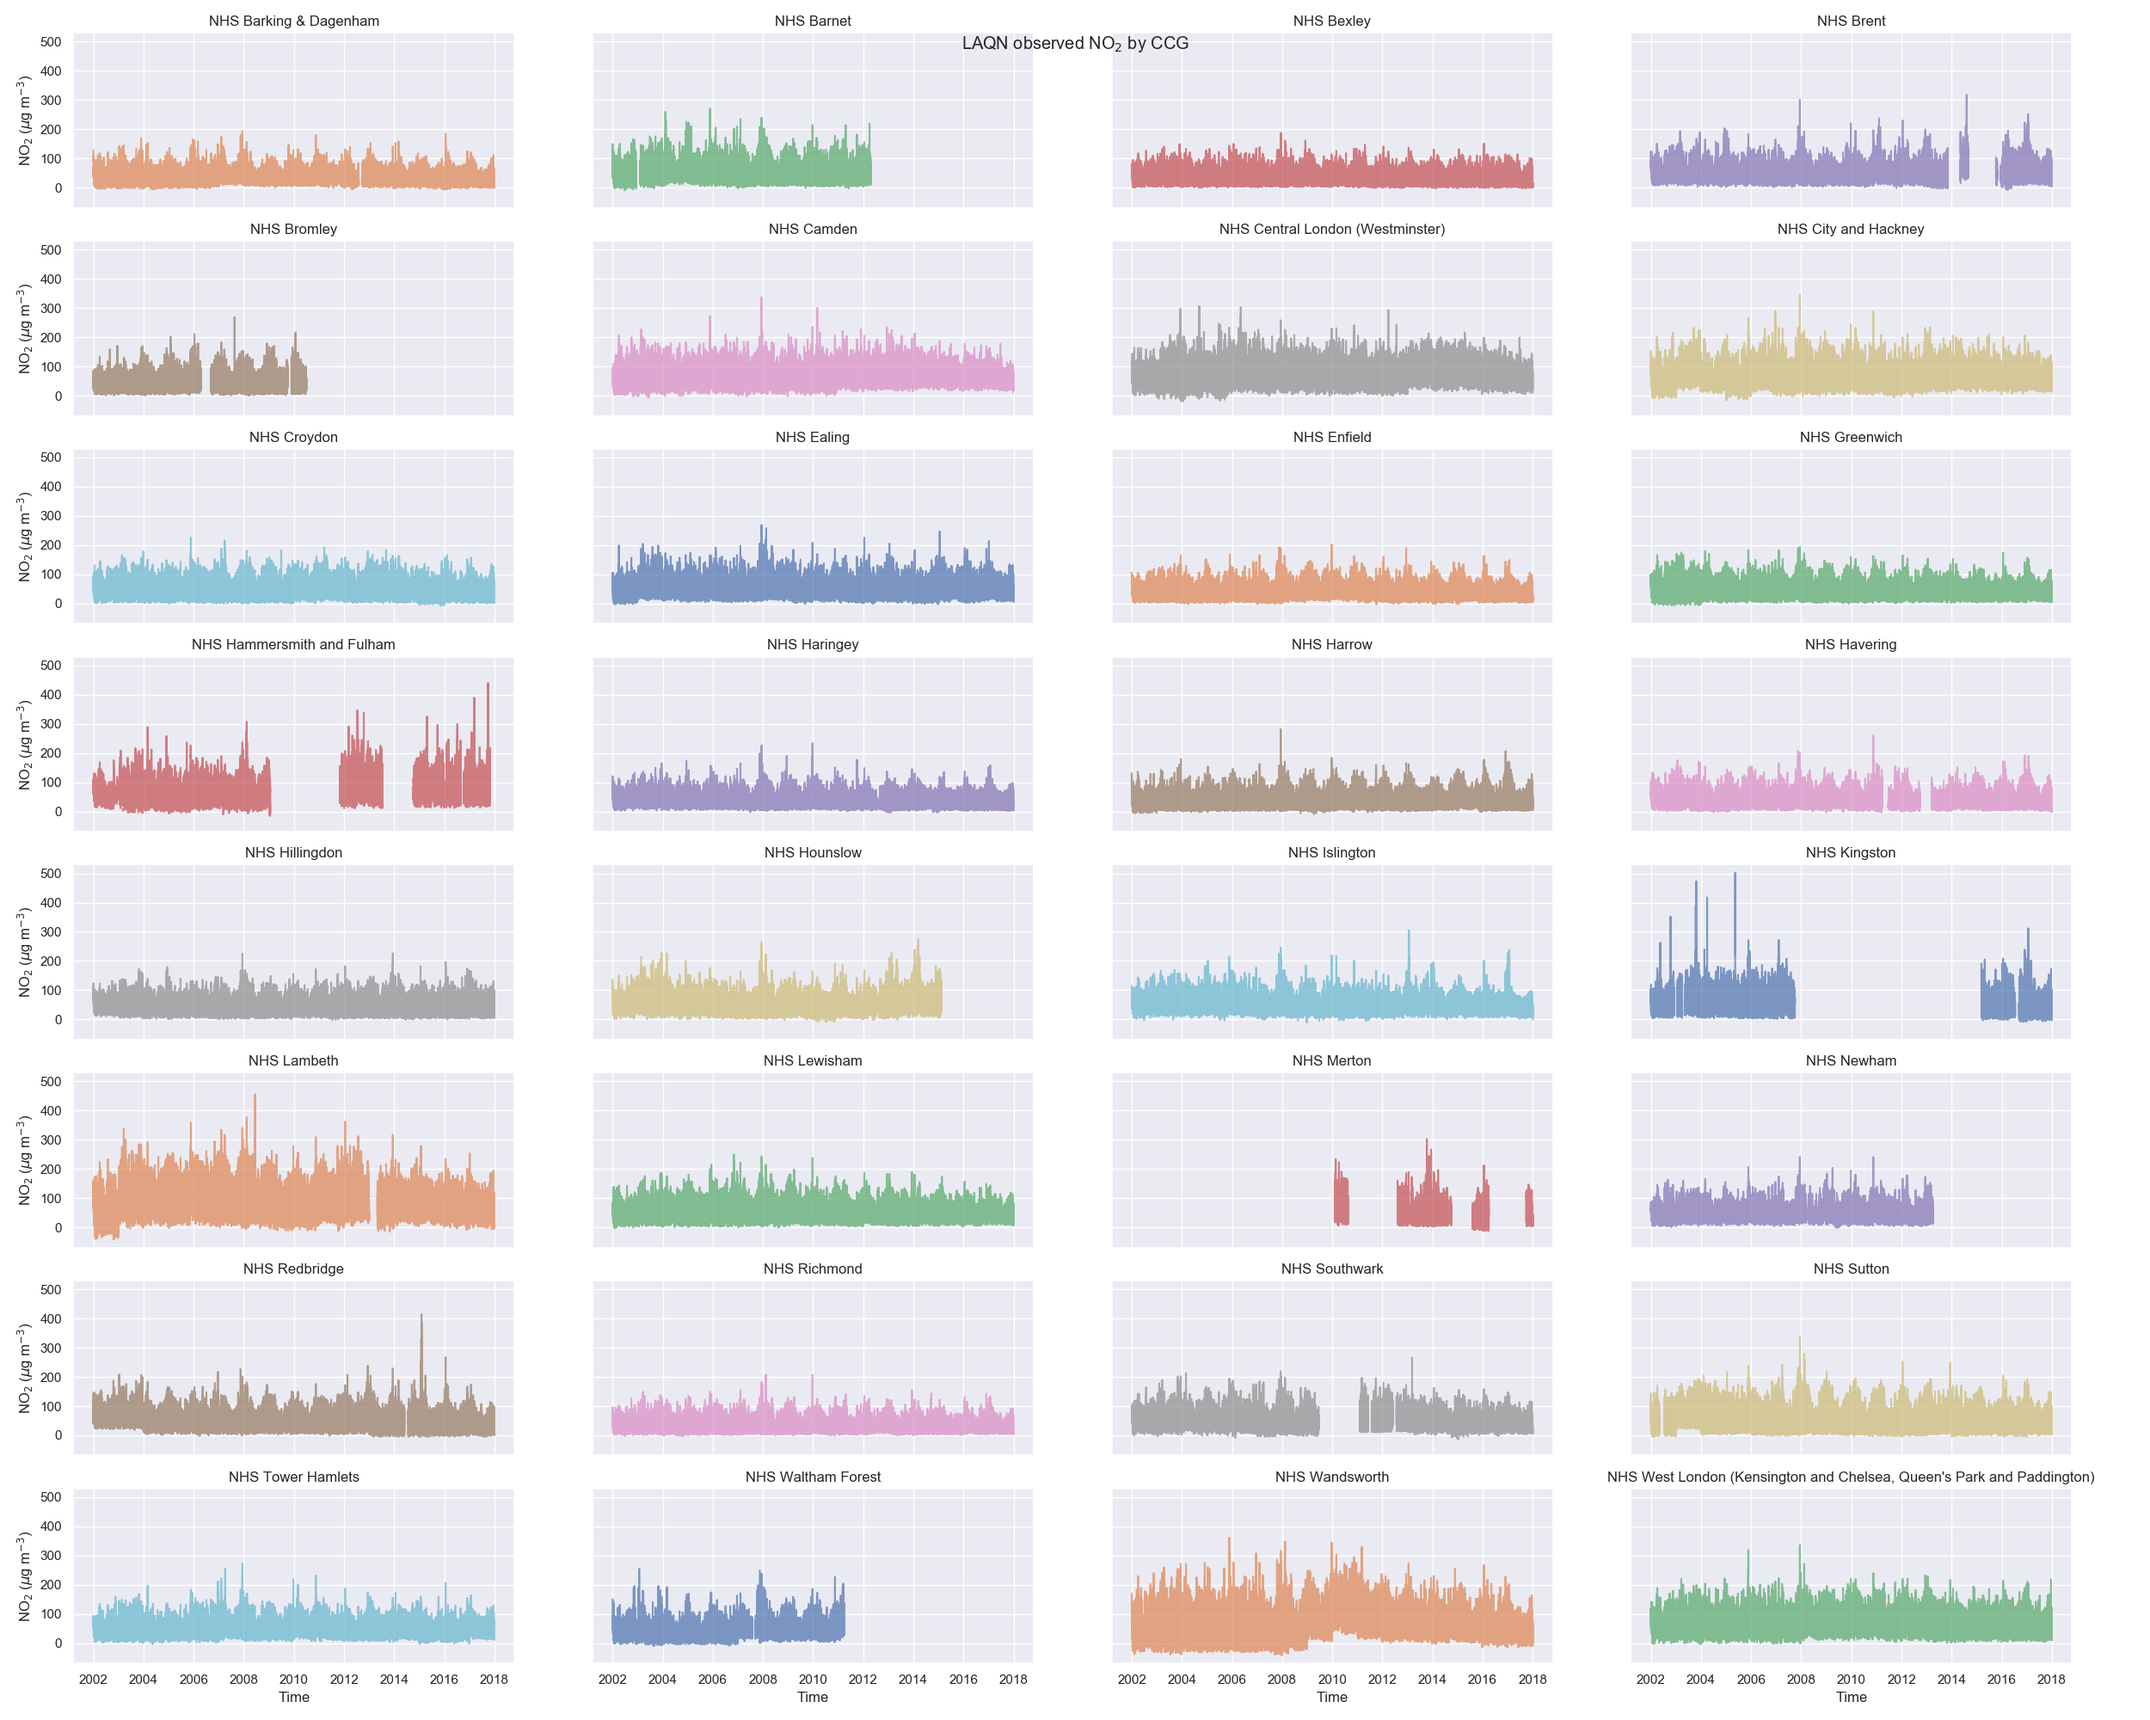
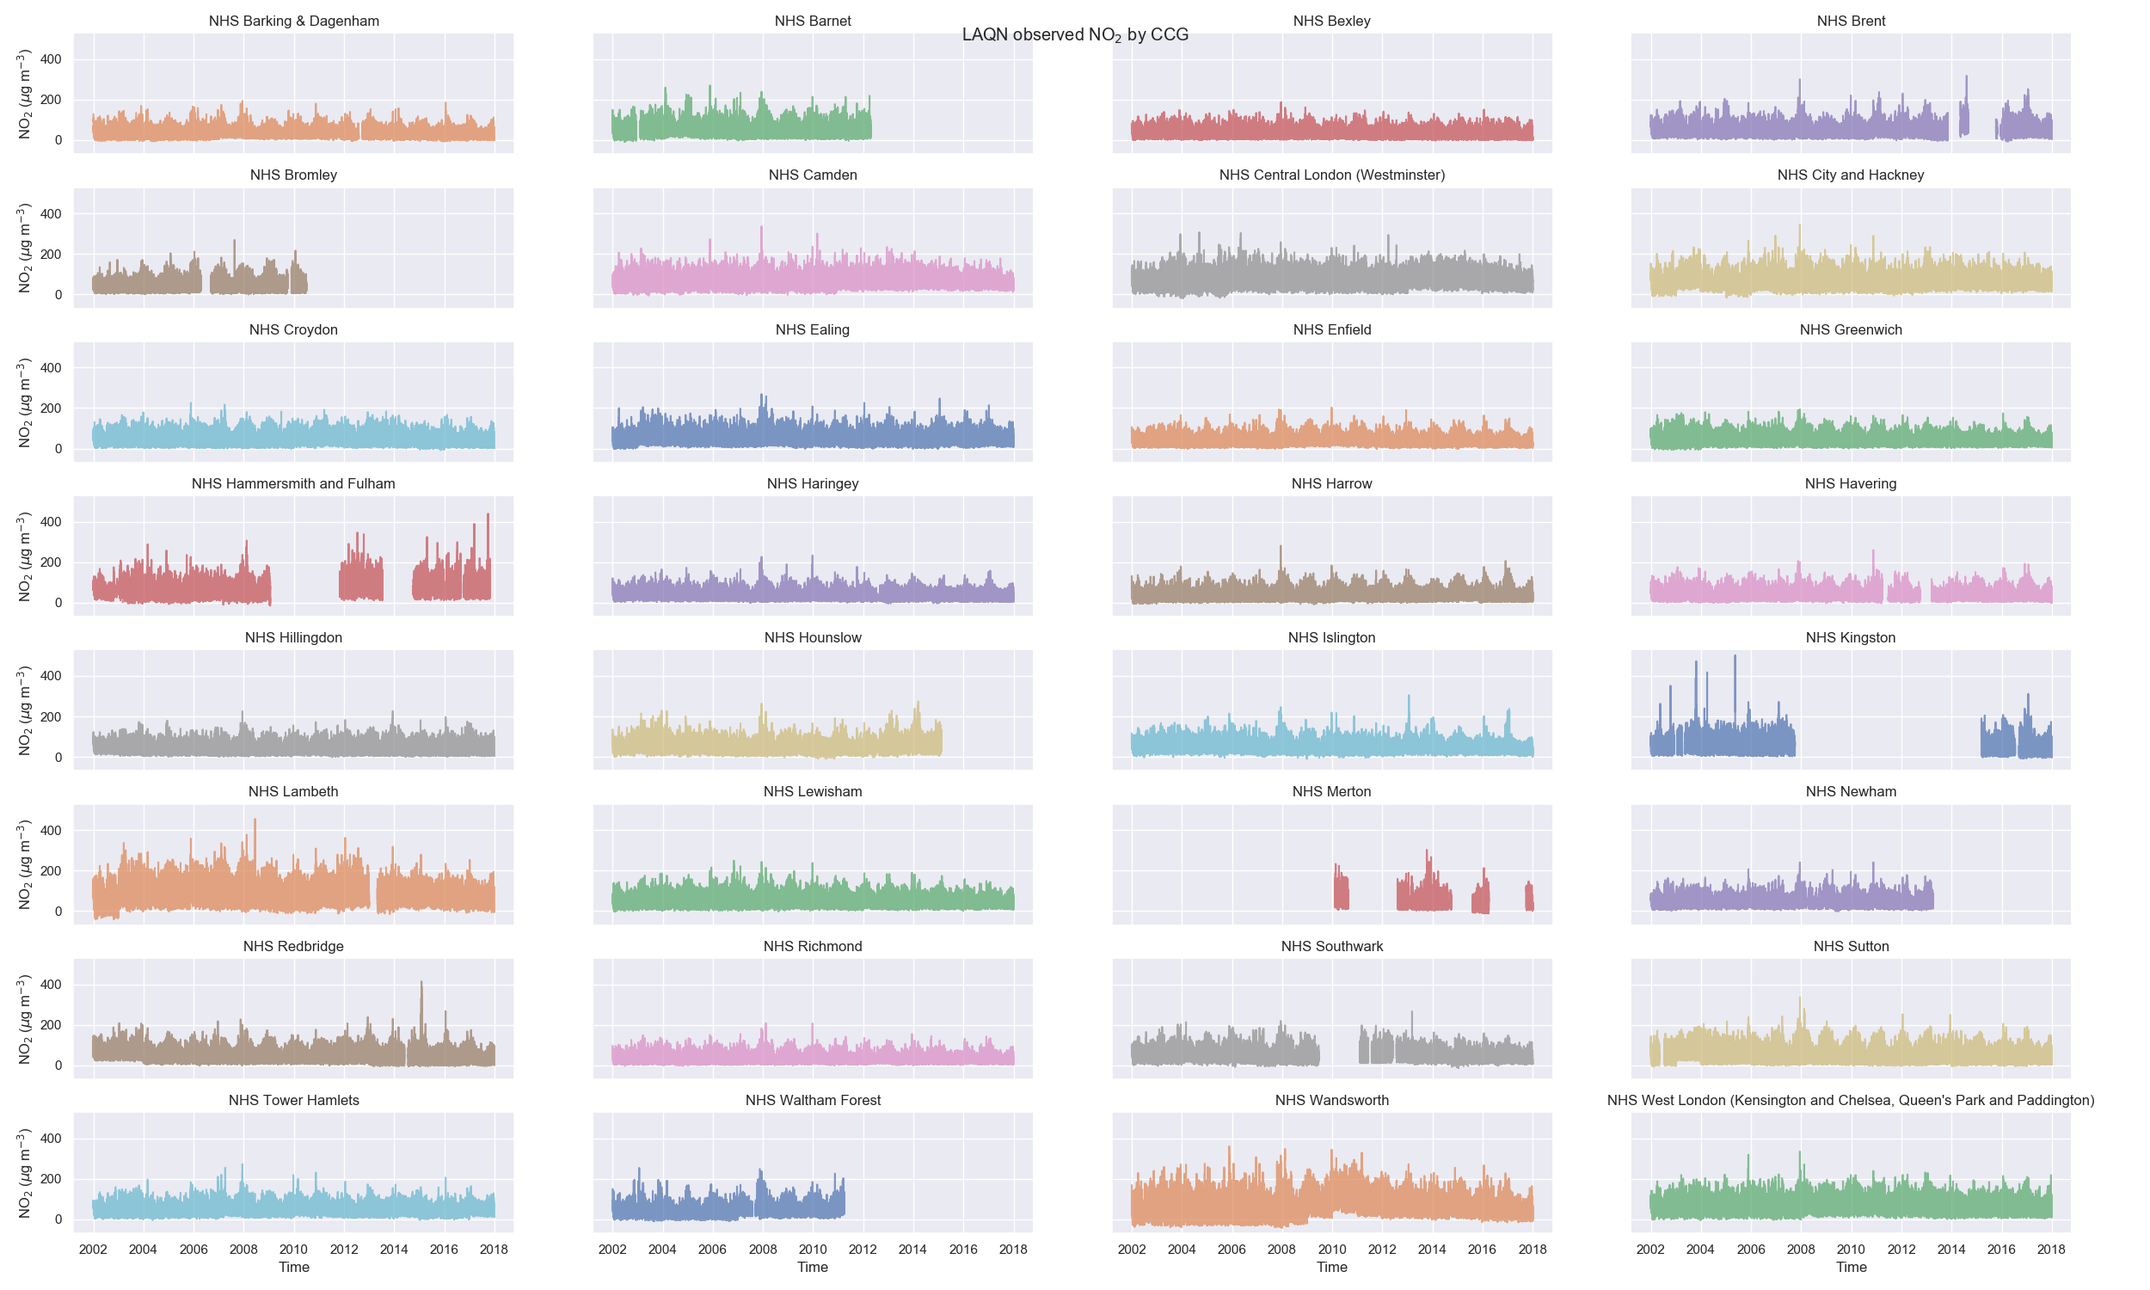
Changed LAQN time series plot dimensions.

diff --git a/data/LAQN/exploration/plot_LAQN_by_CCG.py b/data/LAQN/exploration/plot_LAQN_by_CCG.py
@@ -25,7 +25,7 @@ no2_df.MeasurementDateGMT = pd.to_datetime(no2_df.MeasurementDateGMT)
 # plt.show()
 
 # # Lots of subplots
-timeseries, axs = plt.subplots(8, 4, figsize=(25, 20), sharex=True, sharey=True)
+timeseries, axs = plt.subplots(8, 4, figsize=(25, 15), sharex=True, sharey=True)
 print(f"Plotting timeseries...")
 timeseries.suptitle(r"LAQN observed NO$_2$ by CCG")
 count = 1
